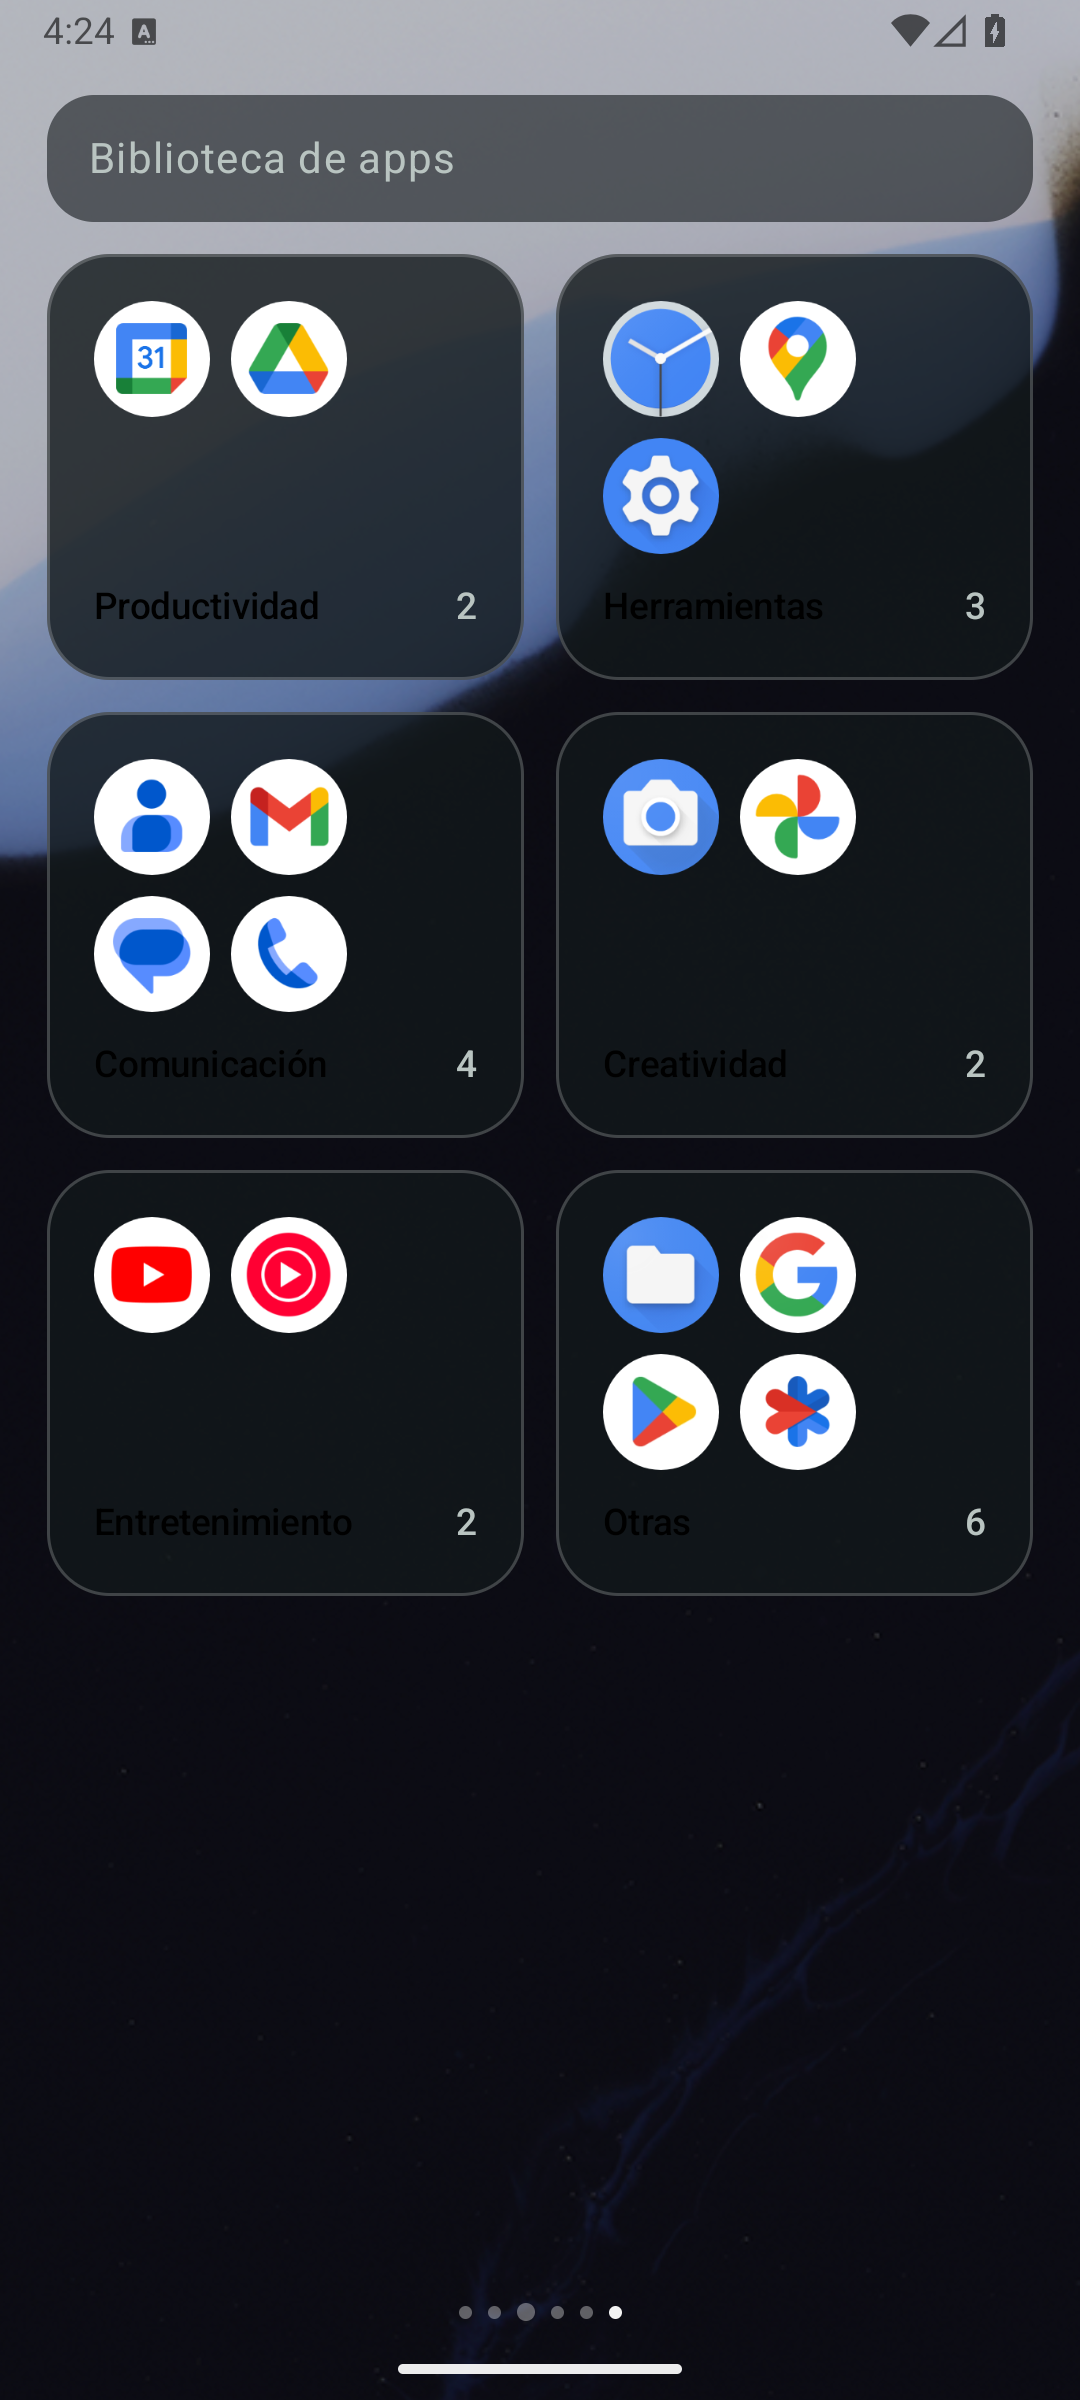
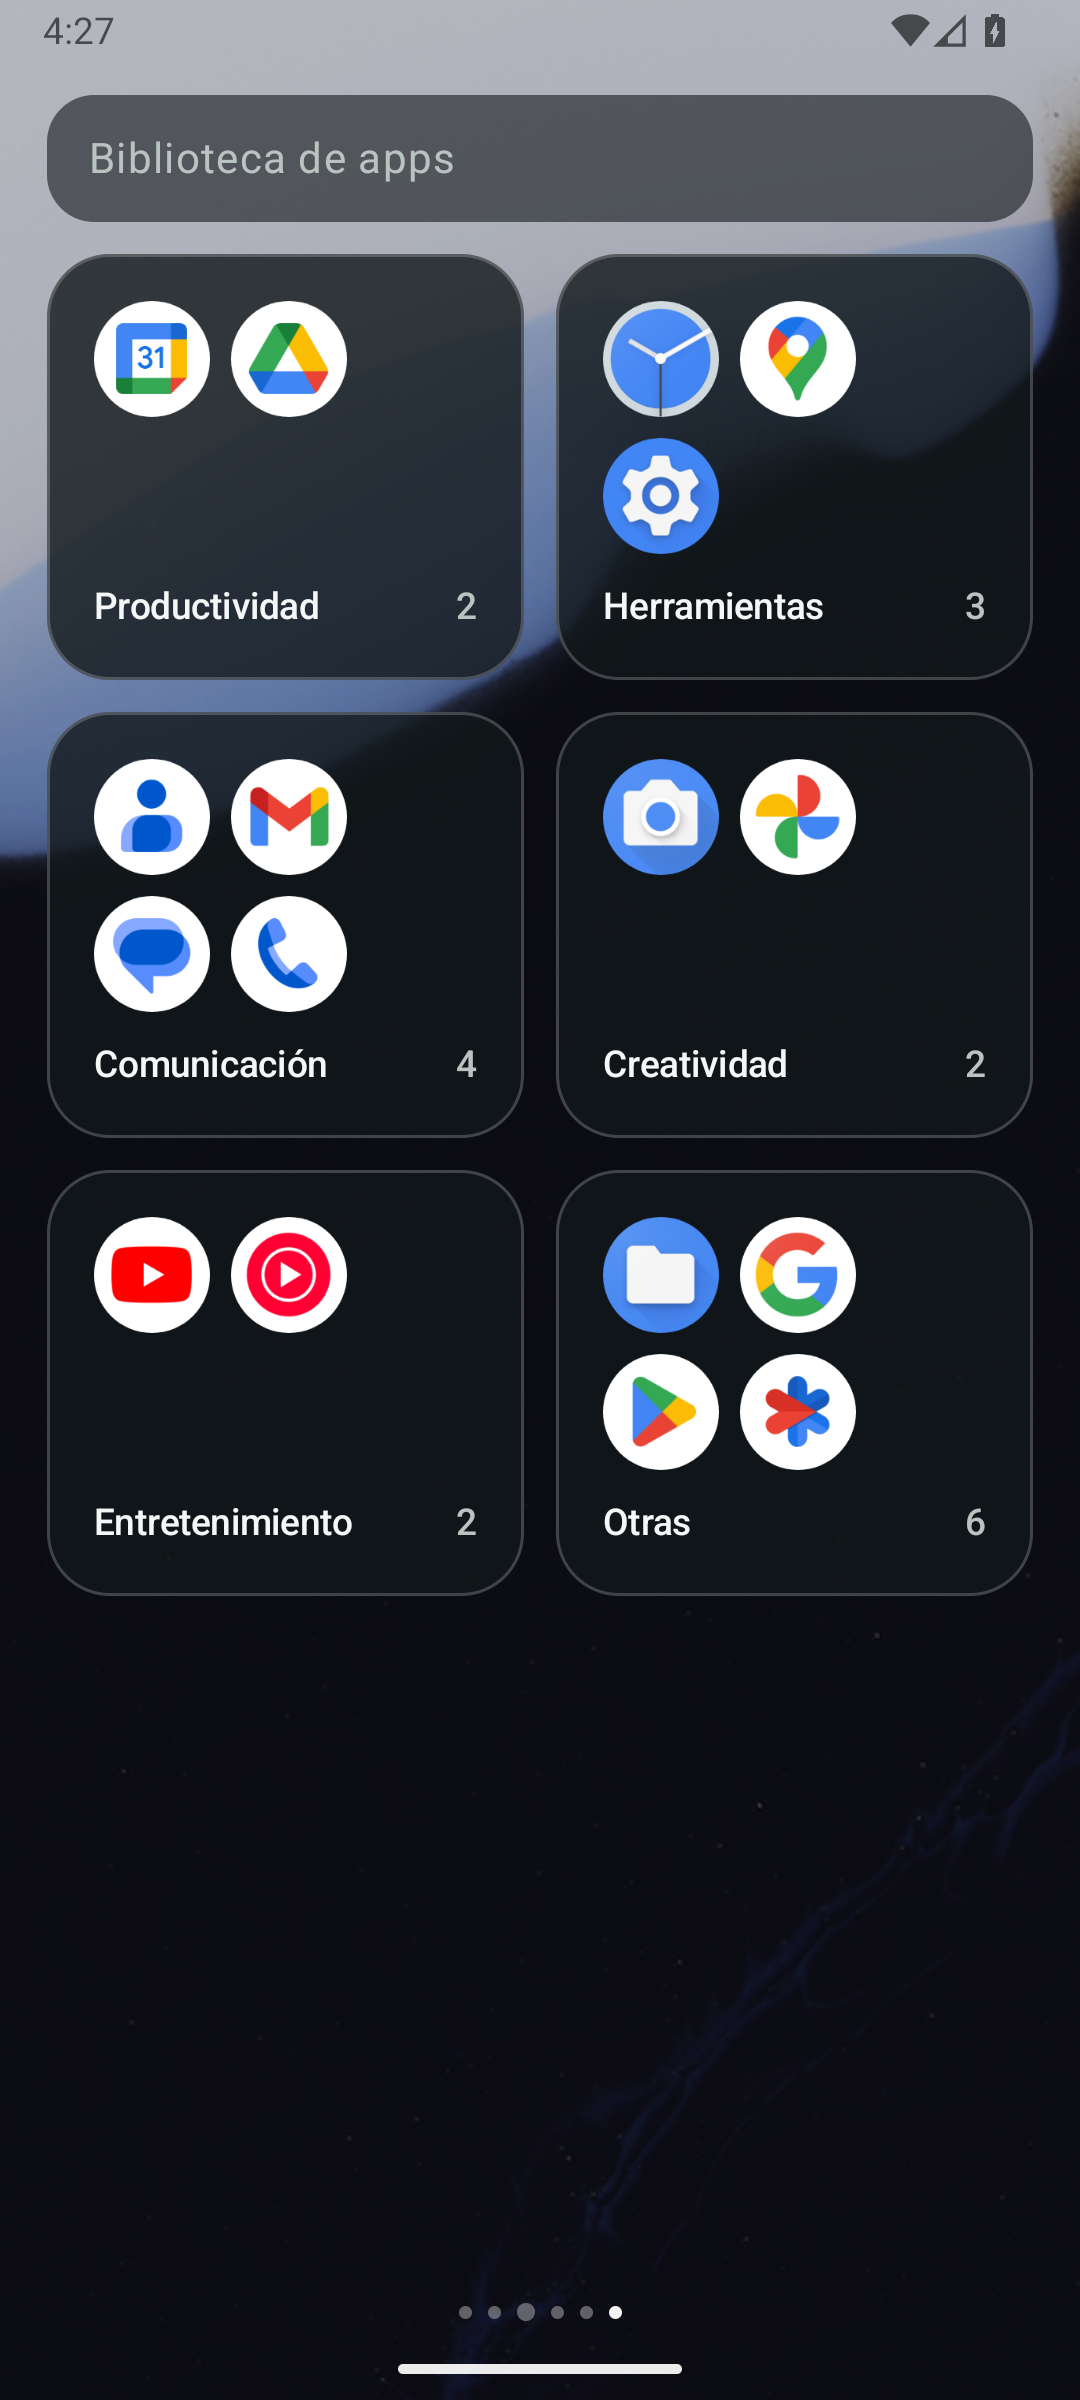
Corrige el contraste del tema oscuro y la barra de estado
Define el color de contenido por defecto en el tema y ajusta los iconos
del sistema según el fondo. Actualiza capturas y resultados de pruebas.

diff --git a/app/src/main/java/com/oasisevolve/launcher/ui/Theme.kt b/app/src/main/java/com/oasisevolve/launcher/ui/Theme.kt
@@ -1,5 +1,6 @@
 package com.oasisevolve.launcher.ui
 
+import android.app.Activity
 import android.app.WallpaperColors
 import android.app.WallpaperManager
 import android.content.Context
@@ -20,6 +21,7 @@ import androidx.compose.foundation.layout.fillMaxWidth
 import androidx.compose.foundation.layout.padding
 import androidx.compose.foundation.layout.size
 import androidx.compose.foundation.shape.RoundedCornerShape
+import androidx.compose.material3.LocalContentColor
 import androidx.compose.material3.MaterialTheme
 import androidx.compose.material3.Surface
 import androidx.compose.material3.Text
@@ -28,6 +30,7 @@ import androidx.compose.material3.lightColorScheme
 import androidx.compose.runtime.Composable
 import androidx.compose.runtime.CompositionLocalProvider
 import androidx.compose.runtime.DisposableEffect
+import androidx.compose.runtime.SideEffect
 import androidx.compose.runtime.getValue
 import androidx.compose.runtime.mutableStateOf
 import androidx.compose.runtime.produceState
@@ -42,11 +45,13 @@ import androidx.compose.ui.graphics.Color
 import androidx.compose.ui.graphics.ImageBitmap
 import androidx.compose.ui.graphics.Shadow
 import androidx.compose.ui.platform.LocalContext
+import androidx.compose.ui.platform.LocalView
 import androidx.compose.ui.text.TextStyle
 import androidx.compose.ui.text.style.TextAlign
 import androidx.compose.ui.text.style.TextOverflow
 import androidx.compose.ui.unit.Dp
 import androidx.compose.ui.unit.dp
+import androidx.core.view.WindowCompat
 import com.oasisevolve.launcher.LauncherViewModel
 import com.oasisevolve.launcher.storage.ThemeMode
 import com.oasisevolve.launcher.system.AppEntry
@@ -80,8 +85,25 @@ fun EvolveTheme(mode: ThemeMode, content: @Composable () -> Unit) {
         ThemeMode.LIGHT -> false
         ThemeMode.DARK -> true
     }
-    CompositionLocalProvider(LocalWallpaperContent provides rememberWallpaperContentColor()) {
-        MaterialTheme(colorScheme = if (dark) DarkColors else LightColors, content = content)
+    val colors = if (dark) DarkColors else LightColors
+    val wallpaperContent = rememberWallpaperContentColor()
+
+    val view = LocalView.current
+    SideEffect {
+        (view.context as? Activity)?.window?.let { window ->
+            WindowCompat.getInsetsController(window, view).apply {
+                val darkIcons = wallpaperContent != Color.White
+                isAppearanceLightStatusBars = darkIcons
+                isAppearanceLightNavigationBars = darkIcons
+            }
+        }
+    }
+
+    CompositionLocalProvider(LocalWallpaperContent provides wallpaperContent) {
+        MaterialTheme(colorScheme = colors) {
+            // Sin esto, el texto fuera de un Surface es negro también en el tema oscuro.
+            CompositionLocalProvider(LocalContentColor provides colors.onSurface, content = content)
+        }
     }
 }
 
@@ -134,7 +156,9 @@ fun GlassCard(
         modifier = modifier.fillMaxWidth(),
         shape = RoundedCornerShape(24.dp),
         color = MaterialTheme.colorScheme.surface.copy(alpha = 0.8f),
-        border = BorderStroke(1.dp, MaterialTheme.colorScheme.outline),
+        // Explícito: con un color translúcido, Surface no puede deducir el contraste del contenido.
+        contentColor = MaterialTheme.colorScheme.onSurface,
+        border =BorderStroke(1.dp, MaterialTheme.colorScheme.outline),
     ) {
         Column(
             modifier = Modifier.padding(18.dp),

diff --git a/docs/TEST_RESULTS.md b/docs/TEST_RESULTS.md
@@ -38,7 +38,7 @@ Ejecutadas con `adb` e interfaz real (toques, deslizamientos y lectura de la jer
 | 22 | Riel de letras y búsqueda por iniciales | Correcto |
 | 23 | Reordenar, dock y «Quiero usar más» | Correcto |
 | 24 | Desinstalar y reinstalar una app | La lista se actualiza sola |
-| 25 | Tema oscuro y cambio de columnas | Aplicados sin fallos |
+| 25 | Tema oscuro y cambio de columnas | Correcto, tras corregir un fallo de contraste en las tarjetas |
 | 26 | Registro de fallos (`logcat -b crash`) | Vacío durante todas las pruebas |
 
 ## Fallos encontrados y corregidos en estas pruebas
@@ -49,6 +49,8 @@ Ejecutadas con `adb` e interfaz real (toques, deslizamientos y lectura de la jer
 4. Atrás no cerraba la interrupción, y el teclado absorbía la pulsación.
 5. «1 días» en la interrupción, y Gmail en la categoría incorrecta.
 6. Tarjetas de la biblioteca con alturas desiguales.
+7. Texto invisible en tema oscuro, en tarjetas y Ajustes: el color del contenido no estaba definido.
+8. Iconos de la barra de estado oscuros sobre fondos oscuros.
 
 ## Medidas
 

diff --git a/docs/FEATURES.md b/docs/FEATURES.md
@@ -24,6 +24,12 @@
 - Widgets con pantalla de configuración: se probó cancelar, no completar la configuración.
 - Perfil de trabajo: código presente, sin probar.
 
+## Problemas conocidos
+
+- En tema claro con fondo oscuro, los iconos de la barra de estado se ven blancos sobre la pantalla de Ajustes.
+- «Mover antes/después» es provisional hasta que exista arrastrar y soltar.
+- Si se cierra el proceso mientras se configura un widget, ese identificador queda sin liberar.
+
 ## Pendiente por fase
 
 **Fase 2:** arrastrar y soltar, carpetas, widgets en inicio, tamaños y espaciado configurables, efecto cristal real,
